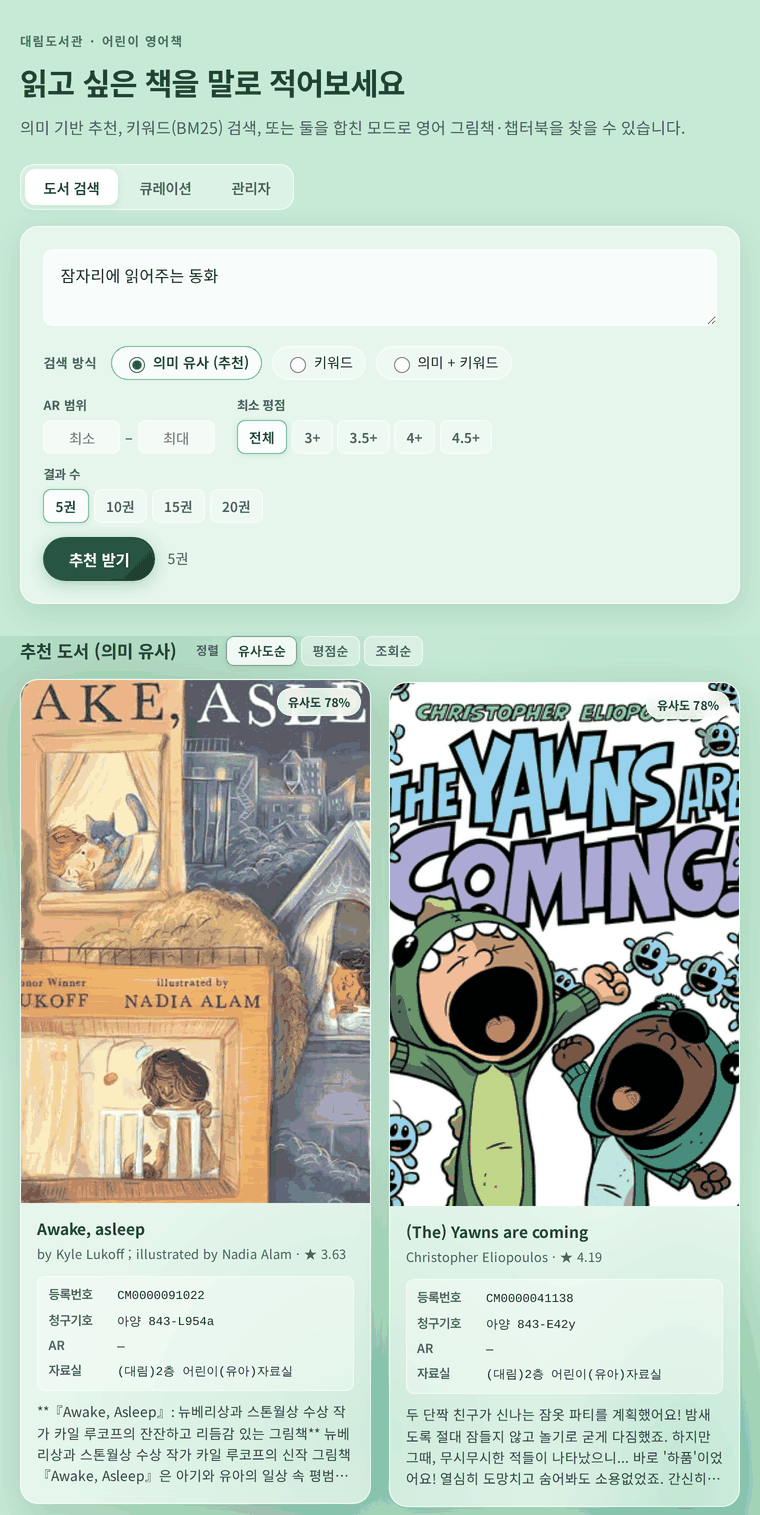
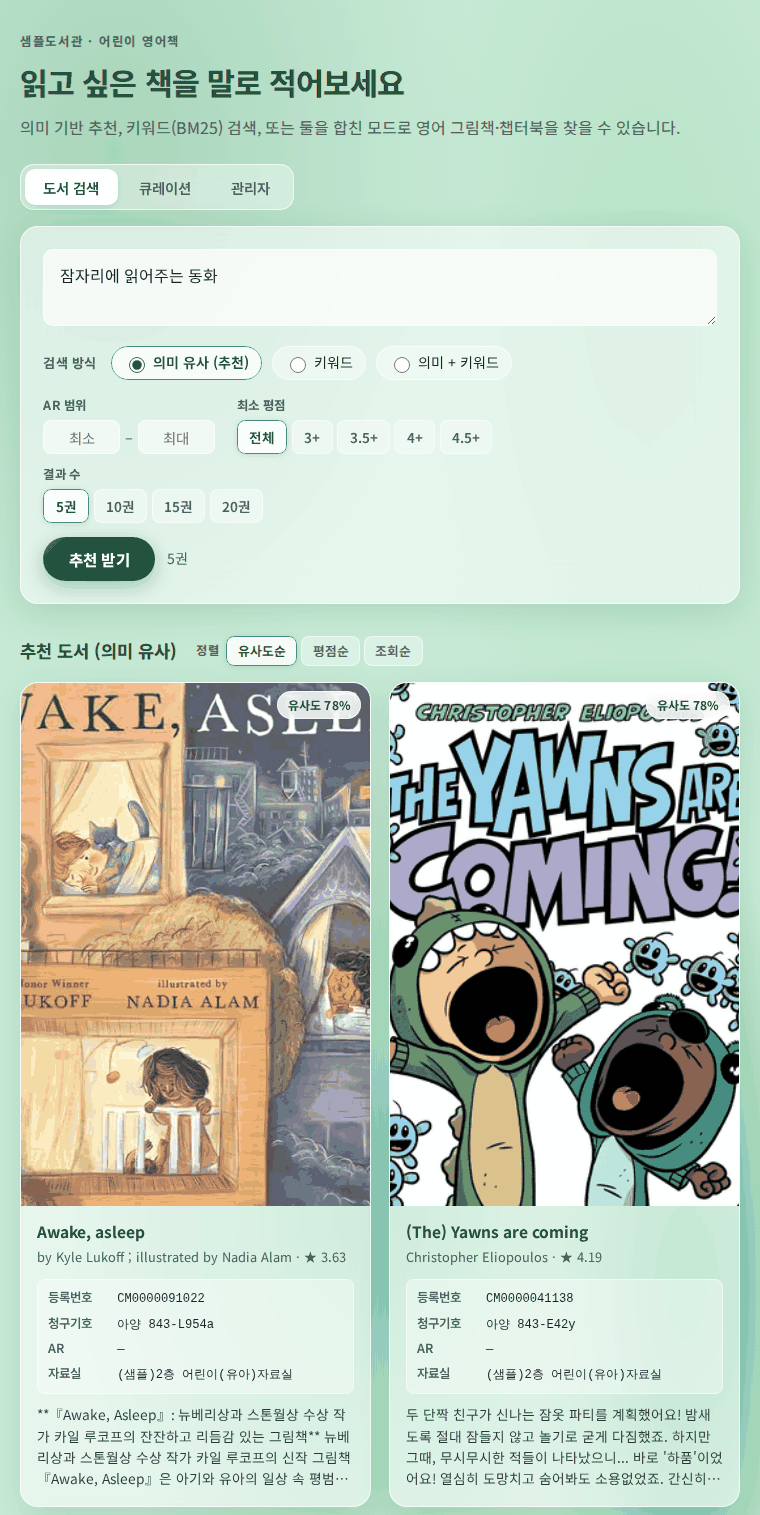
어린이 영어 원서 큐레이션 기술 정리: 도서관 이름을 샘플도서관으로 바꾼다

diff --git a/_posts/2026-11-26-childbook-data-embedding.md b/_posts/2026-11-26-childbook-data-embedding.md
@@ -7,7 +7,7 @@ tags: [임베딩, 검색, 도서관, 데이터, 기술정리]
 published: true
 ---
 
-대림도서관 어린이 영어 원서 3,061권을 문장으로 찾는 검색 서비스다. "잠자리에 읽어주는 동화"처럼 한국어로 적으면 뜻이 가까운 영어 그림책을 돌려준다. 검색은 의미·키워드(BM25)·혼합 세 방식이고, AR 지수 범위와 평점으로 거를 수 있다.
+한 공공도서관의 어린이 영어 원서 3,061권을 문장으로 찾는 검색 서비스다. 도서관 이름은 밝히지 않고, 이 글과 화면에서는 샘플도서관이라 부른다. "잠자리에 읽어주는 동화"처럼 한국어로 적으면 뜻이 가까운 영어 그림책을 돌려준다. 검색은 의미·키워드(BM25)·혼합 세 방식이고, AR 지수 범위와 평점으로 거를 수 있다.
 
 - 소개: [metaphr.dev/app.html?id=childbook](https://metaphr.dev/app.html?id=childbook)
 - 데모: [engbook.metaphr.dev](https://engbook.metaphr.dev/) (2026-11-26 기준 데이터로 고정)
